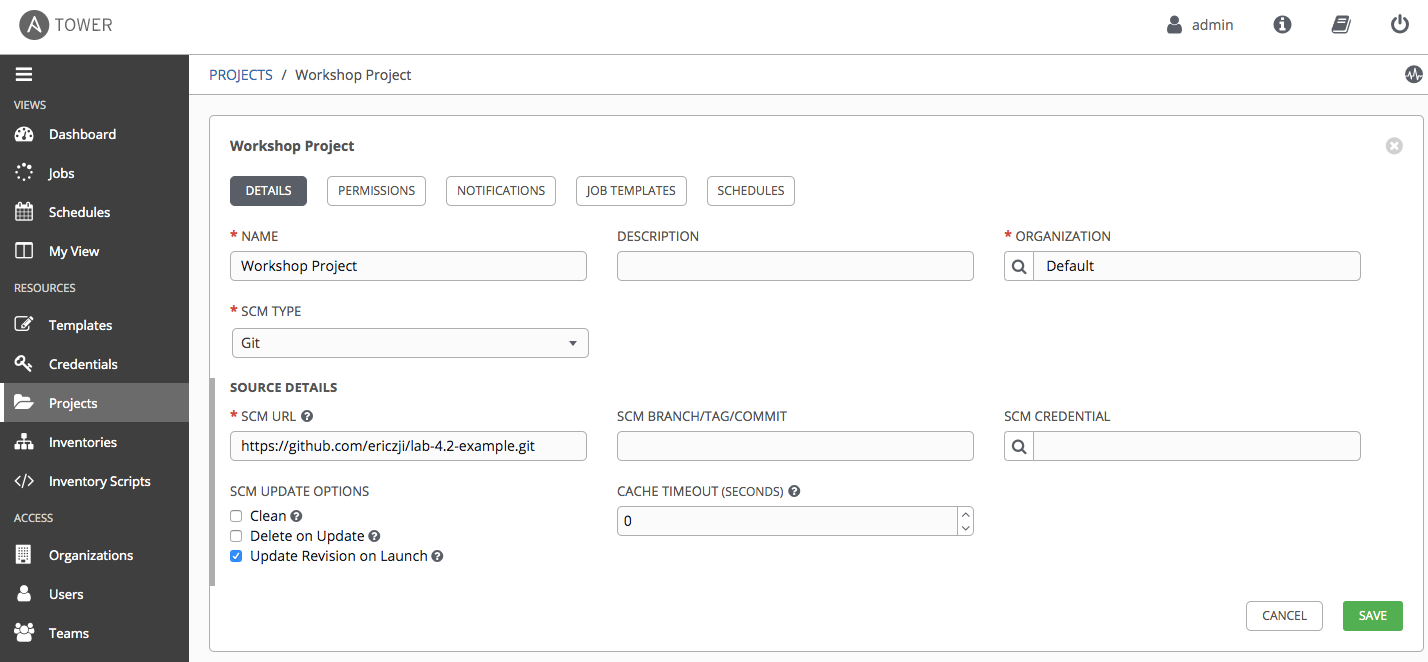
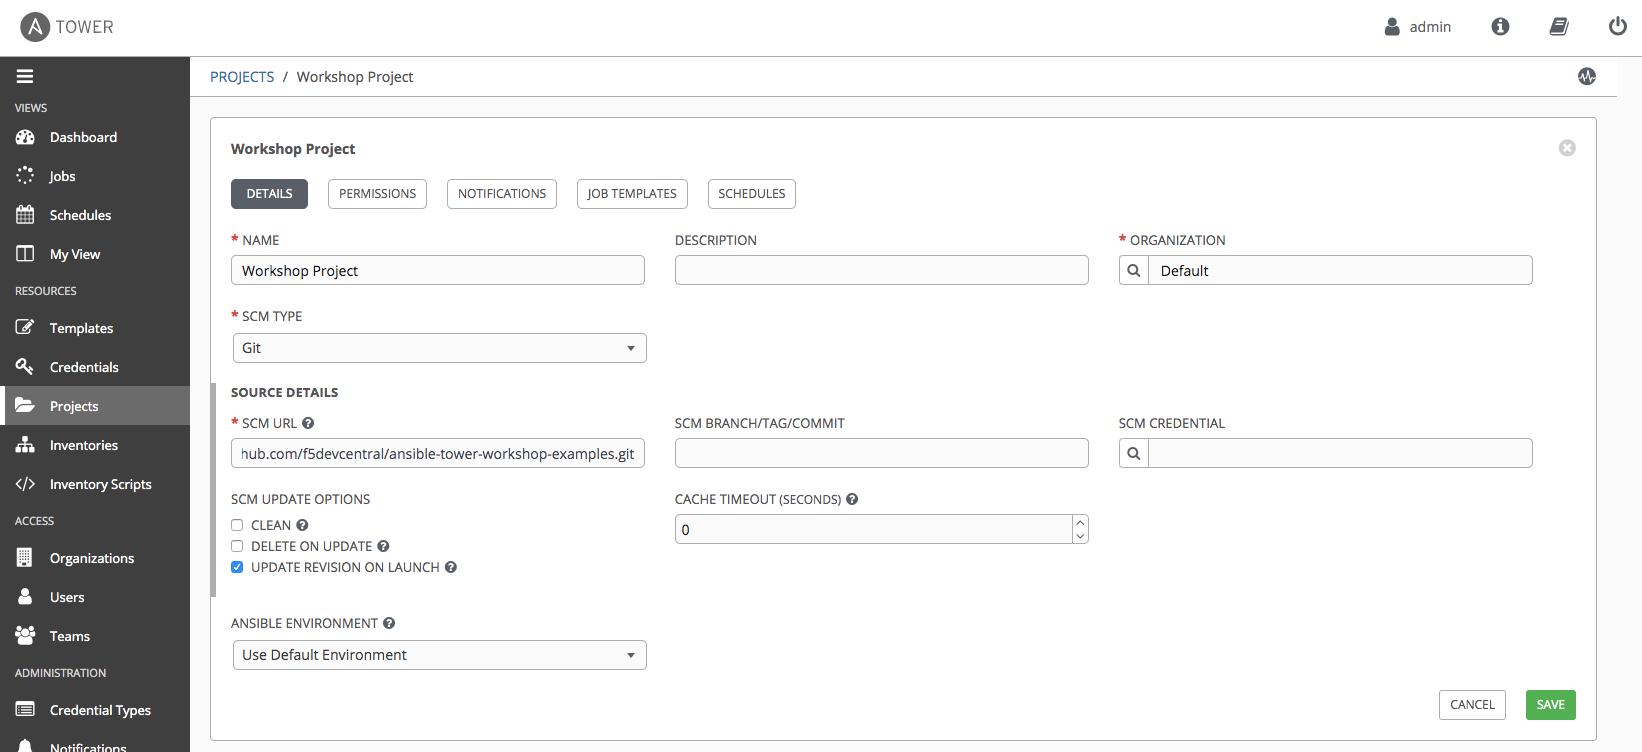
playbook link move

diff --git a/exercises/ansible_f5/4.2-tower-workflow/README.md b/exercises/ansible_f5/4.2-tower-workflow/README.md
@@ -15,6 +15,7 @@
   - [Step 7: *Rollback pool deploy* Template](#step-7-rollback-pool-deploy-template)
   - [Step 8: *Rollback virtual server* Template](#step-8-rollback-virtual-server-template)
   - [Step 9: Run the Workflow](#step-9-run-the-workflow)
+  - [Step 9: Error Handling](#step-9-error-handling)
 - [Takeaways](#takeaways)
 - [Complete](#complete)
 
@@ -144,6 +145,28 @@ Here is one example of templates: **Create node**:
    ![workflow job launched](images/running-workflow.png)
 
     At any time during the workflow job you can select an individual job template by clicking on the node to see the status.
+
+## Step 9: Error Handling
+
+Next, we will show a failed job template for the workflow, where a rollback is performed.
+1.  Click on the `Templates` link on the left menu.
+
+    ![templates link](images/templates.png)
+
+2. Select template `Create virtual server`
+
+3. Change the PLAYBOOK from `create_virtualserver.yml` to `create_virtualserver_error.yml`
+
+The `create_virtualserver_error.yml` playbook will configure the Virtual Server, but tries to attach a pool `http_pool_error` which does not exist. Therefore, the addition of virtual server will fail, and the `Rollback virtual server deploy` node will be triggered.
+
+4. Scroll down and click the green `save` button.
+5. Return to the **Templates** window, cick the rocket ship to launch the **Workshop Workflow** workflow template again.
+
+    ![error handling link](images/error_handling.png)
+
+6. Login to the F5 BIG-IP with your web browser to see what was configured.
+
+Click on **Local Traffic**. then click on **Virtual Servers**, **Pools**, and **Nodes**. You should see that `Rollback virtual server deploy`  kicked in and removed all BIG-IP configuration.
 
 # Takeaways
 

diff --git a/exercises/ansible_f5/4.1-tower-job-template/README.md b/exercises/ansible_f5/4.1-tower-job-template/README.md
@@ -85,10 +85,12 @@ The BIG-IP host `f5` in the inventory will have variables assigned to it with th
     |---|---|
     | Name  | Workshop Project  |
     |  SCM Type |  Git |
-    |  SCM URL |  https://github.com/ericzji/lab-4.2-example.git |
+    |  SCM URL |  https://github.com/f5devcentral/ansible-tower-workshop-examples.git |
     |  Update Revision on Launch |  ✓ |
 
 ![workshop_project link](images/workshop_project.png)
+
+All the playbooks are availabe at https://github.com/f5devcentral/ansible-tower-workshop-examples, and you may take a look at what's behind each playbook.
 
 For reference, here is one of the playbooks that was imported and  will be executed later in this lab.
 
